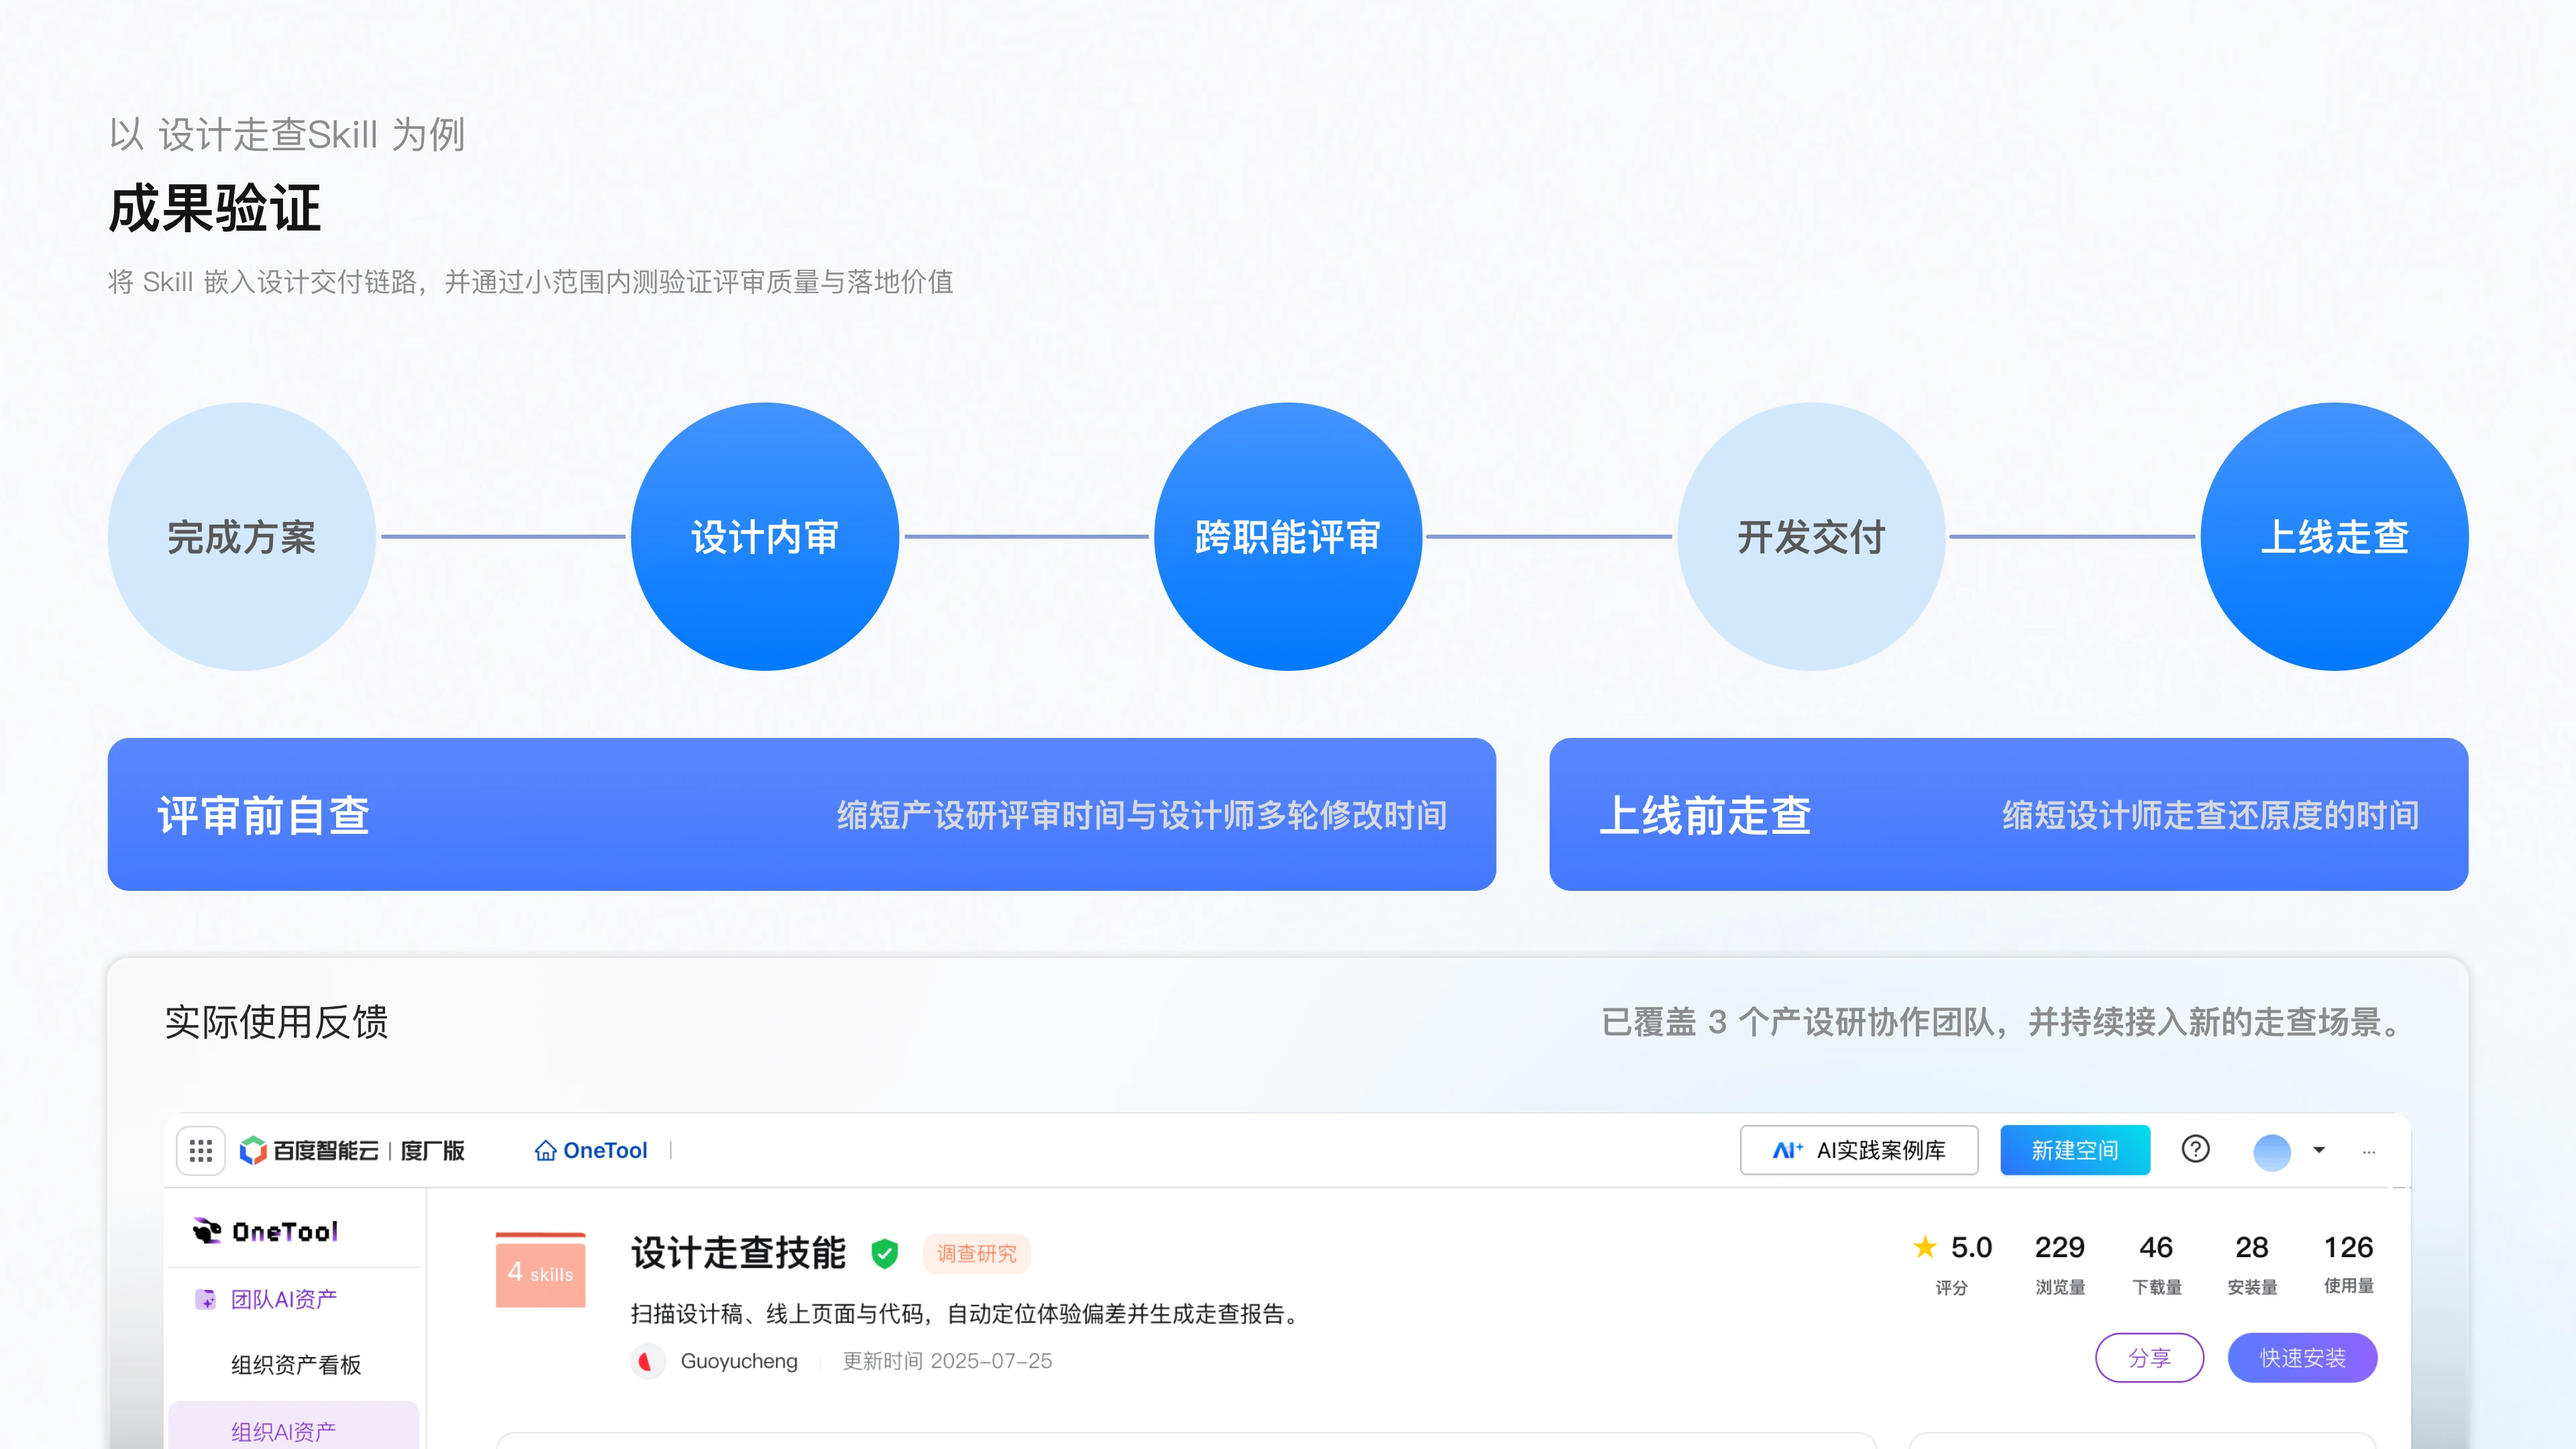
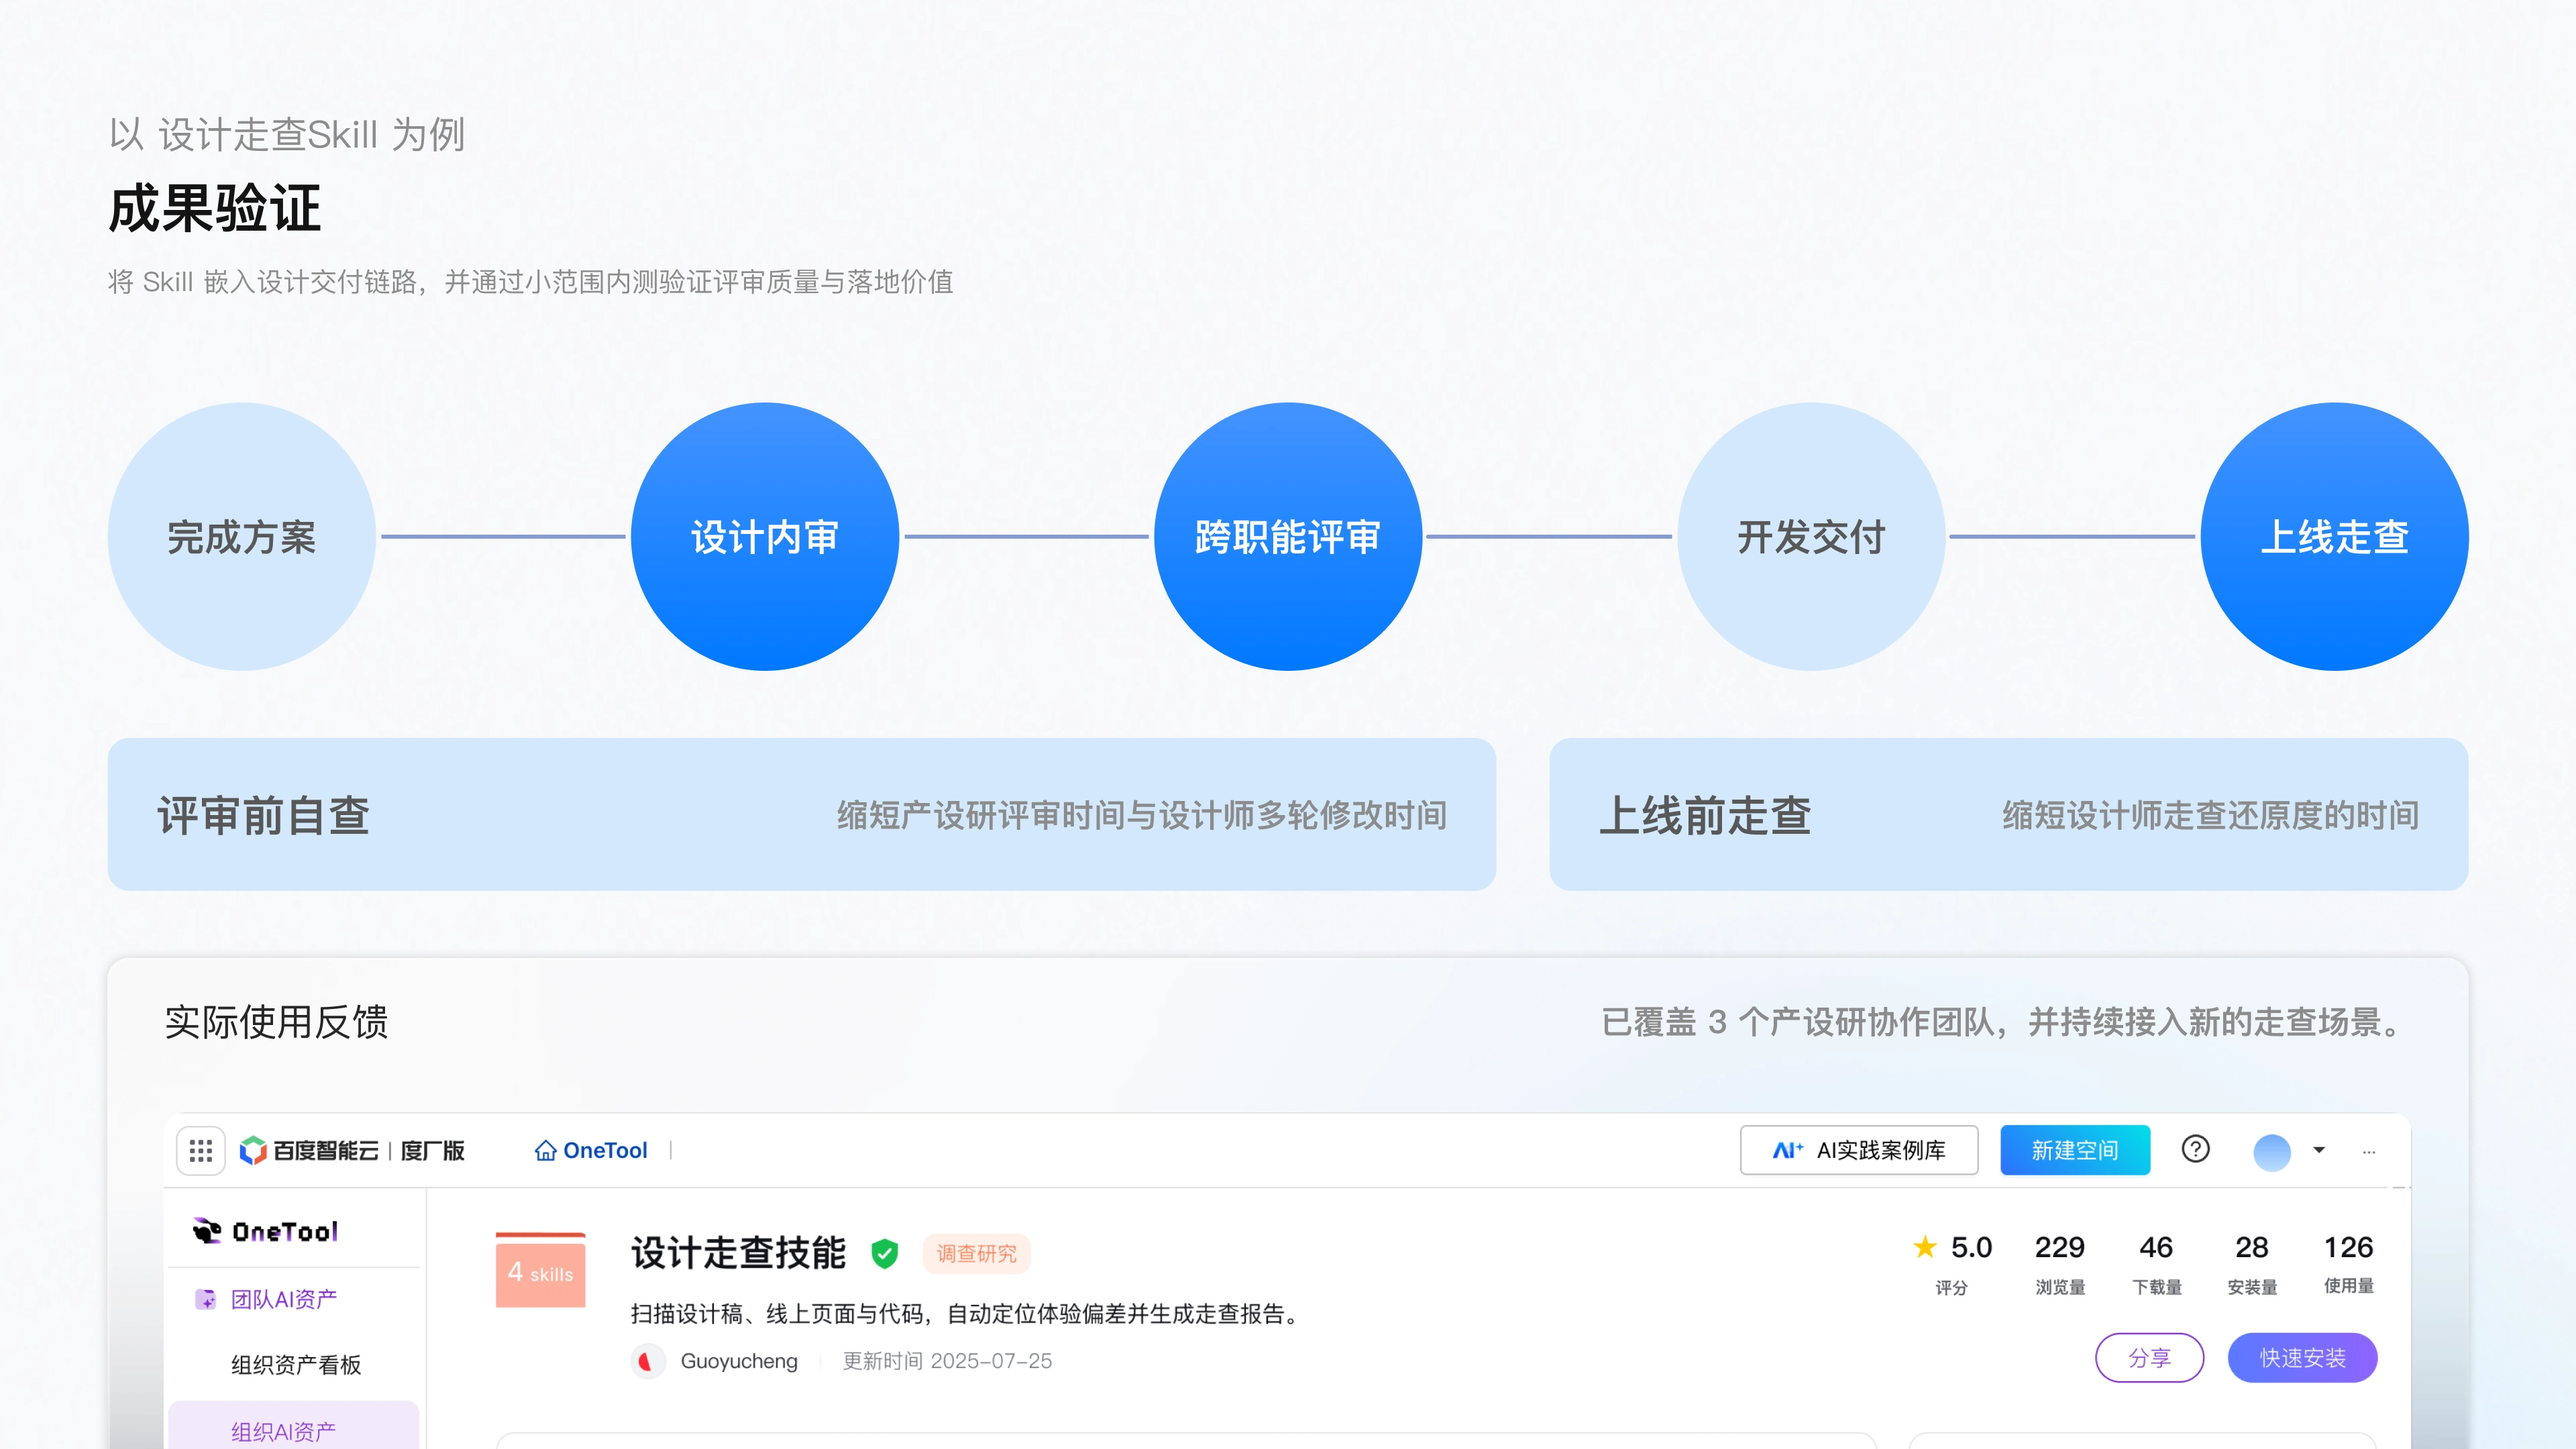
Update Dodo validation results slide

Changed region(s): [[0.0312, 0.4963, 0.9688, 0.6204]]

diff --git a/pages/dodo.html b/pages/dodo.html
@@ -18,7 +18,6 @@
       .dodo-download-slide{position:relative;aspect-ratio:16/9;overflow:hidden}
       .dodo-download-link{position:absolute;z-index:2;display:block;border-radius:999px;background:transparent;cursor:pointer}
       #dodo-slide-12 .dodo-download-link{left:86.04%;top:7.4%;width:10.52%;height:5.19%}
-      #dodo-slide-14 .dodo-download-link{left:85.36%;top:7.5%;width:10.42%;height:5%}
       .dodo-download-link:focus-visible{outline:3px solid #fff;outline-offset:4px}
       .dodo-process-label{position:absolute;left:14px;top:12px;z-index:2;padding:5px 8px;border-radius:5px;background:rgba(10,13,21,.72);color:#fff;font-size:11px;letter-spacing:.04em;pointer-events:none}
       @media(max-width:700px){.dodo-cover-demo{left:4%;top:24.7%;width:59.4%;height:calc(64.6% + 1px);border-radius:1.4% / 2.3%}.dodo-cover-demo iframe{border-radius:0}.dodo-process-label{left:7px;top:7px;padding:4px 6px;font-size:9px}}
@@ -54,10 +53,7 @@
           <a class="dodo-download-link" href="../assets/skills/design-review-skills.zip" download="design-review-skills.zip" aria-label="下载Skill" title="下载Skill"></a>
         </div>
         <img id="dodo-slide-13" data-src="../assets/dodo/pages/page-10.webp?v=20260914-01" alt="以设计走查为例，按设计师走查的思路编排 Skill" width="1920" height="1080" loading="lazy" decoding="async" />
-        <div id="dodo-slide-14" class="case-slide-frame dodo-download-slide">
-          <img data-src="../assets/dodo/pages/page-11.webp?v=20260914-01" alt="一次真实走查，从设计稿到可复现问题" width="1920" height="1080" loading="lazy" decoding="async" />
-          <a class="dodo-download-link" href="../assets/skills/design-review-skills.zip" download="design-review-skills.zip" aria-label="下载Skill" title="下载Skill"></a>
-        </div>
+        <img id="dodo-slide-14" data-src="../assets/dodo/pages/page-11.webp?v=20261102-results-1" alt="设计走查 Skill 成果验证：评审前自查、上线前走查与实际使用反馈" width="1920" height="1080" loading="lazy" decoding="async" />
       </section>
     </main>
     <script>
